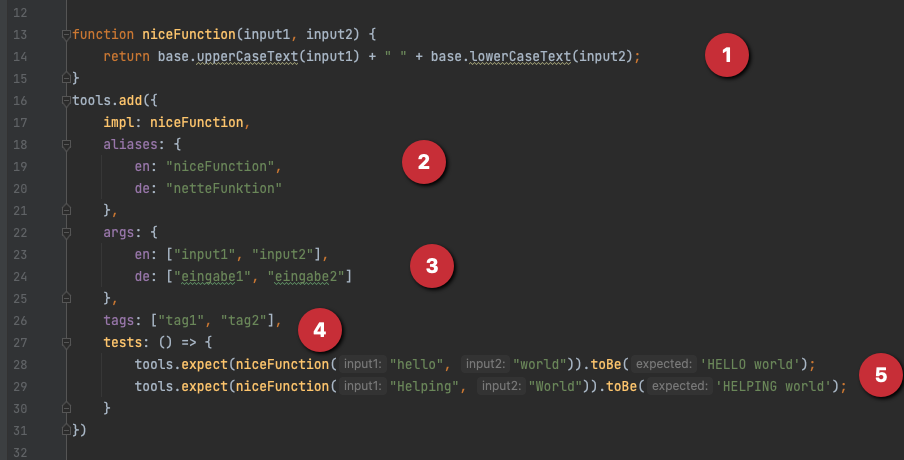
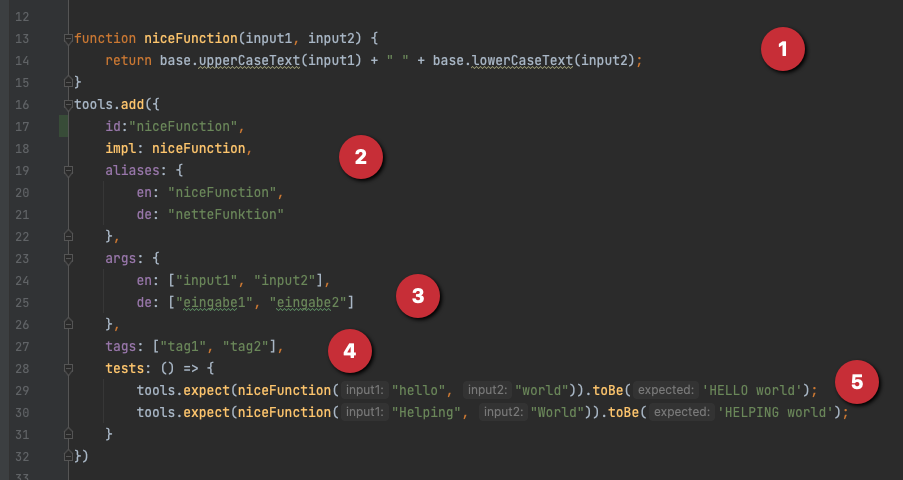
EDIT ReadMe and picture

diff --git a/README.md b/README.md
@@ -17,7 +17,7 @@
    With ``return`` the calculated value is returned.
 2. Following is the information for chioro to manage the function:
 
-   ``impl`` is the name of the function and must match the name in javascript
+   ``id`` and ``impl`` are the name of the function and must match the name in javascript
 
    ``aliases`` are the names of the function in the respective language. These names are displayed in the toolbox.
 
@@ -45,7 +45,7 @@
    Mit return wird der berechnete Wert zurückgegeben.
 2. Es folgen die Informationen für chioro um die Funktion zu verwalten:
 
-   ``impl`` ist der Name der Funktion und muss dem Namen in Javascript entsprechen
+   ``id`` und ``impl`` enthalten den Namen der Funktion und müssen dem Namen in Javascript entsprechen
 
    ``aliases`` sind die Namen der Funktion in der jeweiligen Sprache. Diese Namen werden in der Toolbox angezeigt.
 
